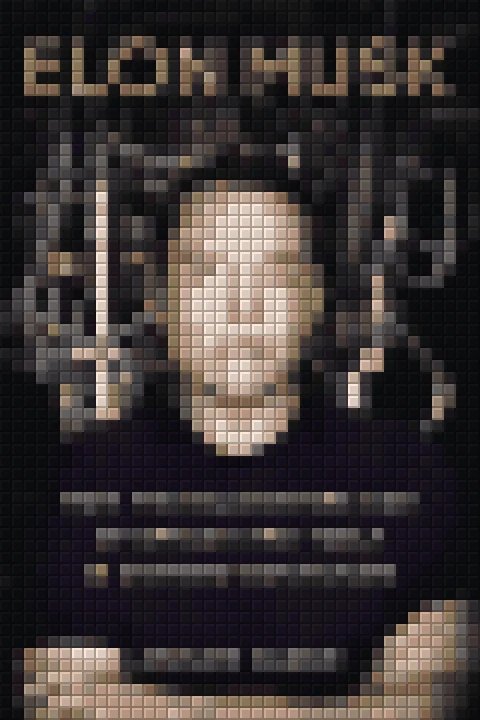
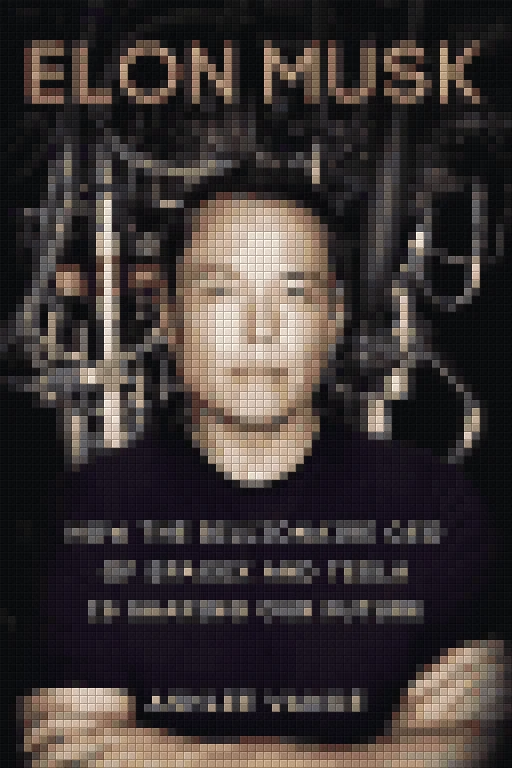
Library covers, readable cards, a pettable cat, gallery fit
- Library: finer pixel covers, three new books (The Hitchhiker's Guide to the
  Galaxy, Ready Player One, The Martian) in place of the blank spines, short
  spine titles, and light text on dark cards (Elon Musk, Aiming High)
- Gallery: smaller thumbnails and a painting sized from the screen height,
  so it fits without scrolling on laptops, tablets and phones
- Cat: a detailed tabby that breathes, twitches its ears and flicks its tail;
  press E or click to pet it and it wakes, meows and shows hearts
- Smoother: no light switching at night (avoids a shader recompile), clicks
  during a book transition are queued, tighter layouts on short screens

Claude-Session: https://claude.ai/code/session_01UD5LqeGeF9FPHVcZJYxNSn

diff --git a/src/hideout.js b/src/hideout.js
@@ -297,13 +297,30 @@ export function buildHideout(scene) {
   // a hearth rug and a cat asleep on it
   { const hr = cv(24, 16, (g2) => { for (let y = 0; y < 16; y++) for (let x = 0; x < 24; x++) { const e = Math.min(x, y, 23 - x, 15 - y); fill(g2, e < 1 ? '#5a2f22' : (x + y) % 4 < 2 ? '#2b6f9a' : '#234a7a', x, y, 1, 1); } });
     const m = new THREE.Mesh(new THREE.PlaneGeometry(1.6, 2.4), lam({ map: toTex(hr, false) })); m.rotation.x = -Math.PI / 2; m.rotation.z = Math.PI / 2; m.position.set(fx - 2.3, F + 0.012, fz); g.add(m); }
-  const cat = new THREE.Group(); cat.position.set(fx - 2.25, F, fz + 0.1); cat.rotation.y = 0.6; cat.userData.keep = true; g.add(cat);
+  // the cat: an orange tabby curled up asleep, head on its paws and tail wrapped round.
+  // It breathes, twitches an ear now and then and flicks its tail; pet it and it wakes up and meows.
+  const cat = new THREE.Group(); cat.position.set(fx - 2.25, F + 0.012, fz + 0.1); cat.rotation.y = 0.6; cat.userData.keep = true; g.add(cat);
+  const fur = flat('#e08a3a'), fur2 = flat('#b85f22'), pale = flat('#f6dcb8'), pink = flat('#f08a9a'), ink = flat('#2a1c14');
   const catBody = new THREE.Group(); cat.add(catBody);
-  { const fur = flat('#e08a3a'), fur2 = flat('#c86a2a'), pale = flat('#f6dcb8');
-    B(catBody, 0.62, 0.24, 0.42, fur, 0, 0.12, 0); B(catBody, 0.62, 0.05, 0.1, fur2, 0, 0.245, 0.06); B(catBody, 0.62, 0.05, 0.1, fur2, 0, 0.245, -0.12);
-    B(catBody, 0.3, 0.24, 0.3, fur, 0.36, 0.13, 0.1); B(catBody, 0.08, 0.1, 0.08, fur2, 0.42, 0.29, 0.02); B(catBody, 0.08, 0.1, 0.08, fur2, 0.42, 0.29, 0.2); B(catBody, 0.04, 0.12, 0.18, pale, 0.52, 0.1, 0.1);
-    B(catBody, 0.04, 0.02, 0.06, flat('#3a2a1f'), 0.515, 0.17, 0.04); B(catBody, 0.04, 0.02, 0.06, flat('#3a2a1f'), 0.515, 0.17, 0.16);
-    B(catBody, 0.5, 0.1, 0.12, fur, -0.05, 0.05, 0.27); B(catBody, 0.12, 0.1, 0.24, fur2, 0.22, 0.05, 0.27); }
+  B(catBody, 0.62, 0.25, 0.4, fur, -0.02, 0.125, 0, true); B(catBody, 0.3, 0.3, 0.42, fur, -0.2, 0.15, 0, true);   // torso and haunch
+  B(catBody, 0.2, 0.16, 0.36, pale, 0.2, 0.08, 0.02, true);                                                         // white chest
+  for (const x of [-0.3, -0.16, -0.02, 0.12]) { B(catBody, 0.05, 0.02, 0.42, fur2, x, 0.256, 0, true); B(catBody, 0.05, 0.12, 0.02, fur2, x, 0.17, 0.205, true); B(catBody, 0.05, 0.12, 0.02, fur2, x, 0.17, -0.205, true); }
+  for (const sz of [-1, 1]) B(catBody, 0.18, 0.08, 0.09, pale, 0.42, 0.04, sz * 0.09, true);                       // front paws
+  B(catBody, 0.12, 0.08, 0.1, pale, -0.3, 0.04, 0.2, true);                                                         // a back paw peeking out
+  const head = new THREE.Group(); head.position.set(0.3, 0.12, 0.02); catBody.add(head);
+  B(head, 0.3, 0.24, 0.32, fur, 0.13, 0.08, 0, true); B(head, 0.08, 0.09, 0.17, pale, 0.29, 0.03, 0, true); B(head, 0.03, 0.03, 0.05, pink, 0.335, 0.075, 0, true);
+  for (const sz of [-1, 1]) B(head, 0.06, 0.02, 0.02, flat('#f6f1e3'), 0.33, 0.03, sz * 0.1, true);                // whiskers
+  B(head, 0.18, 0.02, 0.04, fur2, 0.12, 0.205, 0, true); B(head, 0.14, 0.02, 0.04, fur2, 0.12, 0.205, 0.08, true); B(head, 0.14, 0.02, 0.04, fur2, 0.12, 0.205, -0.08, true);
+  const shut = new THREE.Group(), awake = new THREE.Group(); head.add(shut, awake); awake.visible = false;
+  for (const sz of [-1, 1]) { B(shut, 0.02, 0.02, 0.08, ink, 0.285, 0.12, sz * 0.08, true); B(awake, 0.02, 0.07, 0.07, flat('#7ccf4a'), 0.285, 0.12, sz * 0.08, true); B(awake, 0.025, 0.06, 0.025, ink, 0.29, 0.12, sz * 0.08, true); }
+  const ears = [-1, 1].map((sz) => { const e = new THREE.Group(); e.position.set(0.1, 0.2, sz * 0.1); head.add(e); B(e, 0.09, 0.11, 0.09, fur, 0, 0.055, 0, true); B(e, 0.02, 0.07, 0.05, pink, 0.046, 0.045, 0, true); return e; });
+  // the tail: a chain of joints that curls round the front of the body
+  const tail = []; { let parent = catBody, px = -0.33, pz = 0.05;
+    for (let i = 0; i < 5; i++) { const j = new THREE.Group(); j.position.set(i ? 0.14 : px, i ? 0 : 0.06, i ? 0 : pz); j.rotation.y = i ? 0.48 : -2.6; parent.add(j); const w = 0.09 - i * 0.008; B(j, 0.15, w, w, i === 4 ? fur2 : i % 2 ? fur2 : fur, 0.07, 0, 0, true); tail.push(j); parent = j; } }
+  const heartTex = toTex(cv(7, 6, (g2) => { fill(g2, '#ff5a7a', 1, 0, 2, 1); fill(g2, '#ff5a7a', 4, 0, 2, 1); fill(g2, '#ff5a7a', 0, 1, 7, 2); fill(g2, '#ff5a7a', 1, 3, 5, 1); fill(g2, '#ff5a7a', 2, 4, 3, 1); fill(g2, '#ff5a7a', 3, 5, 1, 1); fill(g2, '#ffc0cc', 1, 1, 1, 1); }), false);
+  const hearts = [0, 1, 2].map((i) => { const m = new THREE.Sprite(new THREE.SpriteMaterial({ map: heartTex, transparent: true, depthWrite: false, fog: false })); m.scale.setScalar(0.22); m.visible = false; g.add(m); return { m, s: i * 0.28 }; });
+  const catHit = new THREE.Mesh(new THREE.BoxGeometry(0.9, 0.5, 0.9), new THREE.MeshBasicMaterial({ transparent: true, opacity: 0, depthWrite: false, colorWrite: false })); catHit.position.set(fx - 2.25, 0.3, fz + 0.1); catHit.userData.prop = 'cat'; g.add(catHit);
+  let petT = -1, twitch = 0, twitchAt = 3, catT = 0;
   solid(fx - 2.65, fx - 1.85, fz - 0.3, fz + 0.5, 0.3);
   // the right wall: a writing desk with a chair, the chest, and the barrels and crates in the front corner
   { const ex = W1 - 0.55;
@@ -335,9 +352,10 @@ export function buildHideout(scene) {
     { id: 'journal', key: 'useJournal', label: 'Journal', color: '#c98a4b', rect: R(dx - 0.6, dx + 0.6, D0 + 1.2, D0 + 2), front: [X(dx), Z(D0 + 3.6)], labelAt: [X(dx), 2.9, Z(D0 + 1.6)] },
     { id: 'gallery', key: 'useGallery', label: 'Gallery', color: '#b0409a', rect: R(gx0, gx1, D0, D0 + 0.6), front: [X(7.48), Z(-5.3)], labelAt: [X(7.48), 4.9, Z(D0 + 0.4)] },
     { id: 'library', key: 'useLibrary', label: 'Library', color: '#b68cff', rect: R(-12, -6.0, 2.0, 7.0), front: [X(-7.4), Z(5.3)], labelAt: [X(-9.2), 3.5, Z(2.6)] },
+    { id: 'cat', key: 'petCat', range: 1.6, label: 'Cat', color: '#e08a3a', rect: R(fx - 2.65, fx - 1.85, fz - 0.3, fz + 0.5), front: [X(fx - 3.3), Z(fz + 0.1)], labelAt: [X(fx - 2.25), 1.3, Z(fz + 0.1)] },
     { id: 'exit', key: 'goUp', range: 1.4, label: 'Back to the Village', color: '#ffd060', rect: R(door.x - 1, door.x + 1, D0 - 0.6, D0 + 0.1), front: [X(door.x), Z(D0 + 1.4)], labelAt: [X(door.x), 4.3, Z(D0)] },
   ];
-  const pickables = [deck, lectern, libHit, ...frames, ...rack.map((r) => r.m)];
+  const pickables = [deck, lectern, libHit, catHit, ...frames, ...rack.map((r) => r.m)];
   const v = new THREE.Vector3();
   let current = null, lastSun = -1;
   return {
@@ -353,9 +371,19 @@ export function buildHideout(scene) {
       const p = 0.5 + Math.sin(time * 1.7) * 0.5; portal.material.opacity = 0.42 + p * 0.12; core.material.opacity = 0.18 + (1 - p) * 0.14;
       torches.forEach((t, i) => t.scale.set(1, 0.85 + Math.sin(time * 11 + i * 2) * 0.15, 1));
       if (playing) deckDisc.rotation.z = -time * 0.9;
-      bulbMat.forEach((m, i) => { m.opacity = night * (0.75 + Math.sin(time * 2 + i * 2.1) * 0.25); }); bulbLight.visible = night > 0.05;
+      bulbMat.forEach((m, i) => { m.opacity = night * (0.75 + Math.sin(time * 2 + i * 2.1) * 0.25); }); 
       fire.forEach((f2, i) => { f2.m.scale.y = 0.75 + Math.sin(time * (9 + i * 2.3) + i) * 0.18 + Math.sin(time * 23 + i * 5) * 0.07; });
-      catBody.scale.y = 1 + Math.sin(time * 1.4) * 0.04; catBody.position.y = 0;
+      // the cat: breathing, an ear twitch every few seconds and a lazy tail; petting wakes it for a few seconds
+      { const cdt = Math.min(0.1, Math.max(0, time - catT)); catT = time;
+        const pet = petT >= 0 ? Math.min(1, petT / 0.35) * Math.min(1, (3.2 - petT) / 0.6) : 0;
+        if (petT >= 0) { petT += cdt; if (petT > 3.2) petT = -1; }
+        catBody.scale.y = 1 + Math.sin(time * 1.3) * 0.035 * (1 - pet) + pet * 0.06 + (pet > 0 ? Math.sin(time * 40) * 0.006 : 0);
+        head.rotation.z = pet * 0.45 + Math.sin(time * 0.6) * 0.03; head.rotation.y = pet * Math.sin(time * 2) * 0.15;
+        shut.visible = pet < 0.4; awake.visible = pet >= 0.4;
+        if (time > twitchAt) { twitch = 1; twitchAt = time + 3 + Math.random() * 5; }
+        twitch = Math.max(0, twitch - cdt * 3); ears.forEach((e, i) => { e.rotation.x = (i ? -1 : 1) * (Math.sin(twitch * Math.PI * 3) * 0.25 * twitch) ; e.rotation.z = pet * 0.2; });
+        tail.forEach((j, i) => { if (i) j.rotation.y = 0.48 + Math.sin(time * (1.1 + pet * 4) - i * 0.7) * (0.06 + i * 0.03) * (1 + pet * 2.5); });
+        hearts.forEach((h) => { const k = petT >= 0 ? (petT - h.s) / 1.6 : -1; h.m.visible = k > 0 && k < 1; if (h.m.visible) { h.m.position.set(cat.position.x + 0.2 + Math.sin(k * 6 + h.s * 9) * 0.15, F + 0.7 + k * 1.1, cat.position.z + (h.s - 0.28) * 0.6); h.m.material.opacity = Math.sin(k * Math.PI); } }); }
       if (time - lastSun > 20 || lastSun < 0) { lastSun = time; const d = new Date(), h = d.getHours() + d.getMinutes() / 60, dx = Math.max(-1.6, Math.min(1.6, (12.5 - h) * 0.32)); shaftGeo.setAttribute('position', new THREE.Float32BufferAttribute(shaftPos(dx), 3)); patch.position.x = win.x + 0.4 + dx; }
       rack.forEach((r) => { r.halo.material.opacity = r.id === current ? (playing ? 0.35 + p * 0.15 : 0.18) : 0; });
       notes.forEach((n) => { const k = (time * 0.32 + n.s) % 1; n.m.visible = playing; v.set(mx - 0.1 + Math.sin(k * 6 + n.s * 9) * 0.45, 1.7 + k * 2.0 + F, mz + 0.5); n.m.position.copy(v); n.m.material.opacity = Math.sin(k * Math.PI); });
@@ -363,6 +391,7 @@ export function buildHideout(scene) {
       book.position.y = 1.35 + F + Math.sin(time * 1.6) * 0.07; book.rotation.y = Math.sin(time * 0.5) * 0.9; const o = 0.35 + Math.sin(time * 1.2) * 0.3; pageL.rotation.z = o; pageR.rotation.z = -o;
       glyphs.forEach((gl) => { const k = (time * 0.22 + gl.s) % 1; gl.m.position.set(gl.sx + (lib.x - gl.sx) * k, gl.sy + F + Math.sin(k * Math.PI) * 0.6 + (1.2 - gl.sy) * k, gl.sz + (lib.z - gl.sz) * k); gl.m.material.opacity = Math.sin(k * Math.PI) * 0.9; });
     },
+    pet() { petT = 0; },
     setDisc(id) { const r = RECORDS.find((q) => q.id === id) || RECORDS[0]; current = r.id; deckDisc.material = coverMat(r); },
   };
 }

diff --git a/src/style.css b/src/style.css
@@ -559,7 +559,7 @@ body:not(.touch) .touch-only,body.touch .desk-only{display:none}
   box-shadow:inset 0 -6px 0 #2a1420,inset 0 -9px 0 #c98a2b}
 .gal-light{position:absolute;left:50%;top:0;width:60%;height:100%;transform:translateX(-50%);background:linear-gradient(180deg,rgba(255,236,170,.16),rgba(255,236,170,0) 75%);clip-path:polygon(38% 0,62% 0,100% 100%,0 100%);pointer-events:none}
 .gal-stage{position:relative;display:grid;place-items:center;min-width:0;touch-action:pan-y}
-.gal-frame{margin:0;width:min(480px,100%,calc((100vh - var(--tb) - 430px) * 4 / 3));min-width:200px;aspect-ratio:4/3;box-sizing:border-box;padding:22px;background:#5a3a1f;will-change:transform,opacity;
+.gal-frame{margin:0;width:min(460px,100%,calc((100vh - var(--tb) - 480px) * 4 / 3));width:min(460px,100%,calc((100dvh - var(--tb) - 480px) * 4 / 3));min-width:150px;aspect-ratio:4/3;box-sizing:border-box;padding:16px;background:#5a3a1f;will-change:transform,opacity;
   box-shadow:inset 0 0 0 4px #3a2413,inset 0 0 0 8px #e4b93a,inset 0 0 0 11px #a8761e,inset 0 0 0 14px #e4b93a,inset 0 0 0 18px #3a2413,0 16px 0 rgba(0,0,0,.45),0 0 60px rgba(255,220,140,.12)}
 .gal-frame canvas{width:100%;height:100%;display:block;image-rendering:pixelated}
 .gal-arrow{width:48px;height:64px;padding:0;display:grid;place-items:center;background:#2a1420;border:3px solid #a8761e;box-shadow:0 5px 0 #120a0e;z-index:2}
@@ -576,7 +576,7 @@ body:not(.touch) .touch-only,body.touch .desk-only{display:none}
 .gal-go:active{transform:translate(2px,2px);box-shadow:2px 2px 0 #120a0e}
 .gal-go.off{border-color:#5a3a3a;color:#8a7a70;box-shadow:none;cursor:default;background:transparent}
 .gal-rail{display:flex;justify-content:center;gap:12px;flex-wrap:wrap}
-.gal-thumb{display:flex;flex-direction:column;align-items:center;width:76px;padding:4px;background:#24141c;border:3px solid #3a2413;color:#d9c9a8;transition:border-color .15s,transform .2s var(--ease)}
+.gal-thumb{display:flex;flex-direction:column;align-items:center;width:52px;padding:3px;background:#24141c;border:3px solid #3a2413;color:#d9c9a8;transition:border-color .15s,transform .2s var(--ease)}
 .gal-thumb canvas{width:100%;aspect-ratio:4/3;height:auto;image-rendering:pixelated;display:block;box-shadow:0 0 0 2px #a8761e}
 .gal-thumb:hover{transform:translateY(-3px)}
 .gal-thumb.on{border-color:#e4b93a;color:#ffe6a0}
@@ -592,7 +592,7 @@ body:not(.touch) .touch-only,body.touch .desk-only{display:none}
   .book-x{top:14px;right:14px}
   .gal-wall{grid-template-columns:1fr;padding:18px 10px 14px}
   .gal-arrow{display:none}
-  .gal-thumb{width:64px}
+  .gal-thumb{width:48px}
 }
 @media (prefers-reduced-motion:reduce){ .cdp-spin,.lcd-title.run span{animation:none} }
 
@@ -605,7 +605,9 @@ body:not(.touch) .touch-only,body.touch .desk-only{display:none}
 .lib-card{display:grid;grid-template-columns:auto 1fr;gap:34px;align-items:center;padding:30px 40px 28px;background-color:var(--page);transition:background-color .5s ease;min-height:280px;opacity:0}
 .lib-cover{width:min(190px,30vw);aspect-ratio:2/3;transform-origin:left center;transform:perspective(900px) rotateY(-14deg);box-shadow:10px 12px 0 rgba(0,0,0,.28)}
 .lib-cover img{width:100%;height:100%;display:block;image-rendering:pixelated;box-shadow:inset 6px 0 0 rgba(0,0,0,.2)}
-.lib-info{color:#14182e;min-width:0}
+.lib-info{color:#14182e;min-width:0;transition:color .4s ease}
+.lib.dark .lib-info{color:#f6f1e3}
+.lib.dark .lib-kicker,.lib.dark .lib-info h3,.lib.dark .lib-note{opacity:.85}
 .lib-kicker{font-family:var(--display);font-size:12px;letter-spacing:.2em;text-transform:uppercase;opacity:.7}
 .lib-info h2{margin:6px 0 4px;font-family:var(--display);font-size:clamp(22px,3vw,32px);line-height:1.1;letter-spacing:.01em}
 .lib-author{margin:0;font-size:17px;font-style:italic;font-weight:700}
@@ -615,13 +617,13 @@ body:not(.touch) .touch-only,body.touch .desk-only{display:none}
 .lib-take{margin:0;font-size:17px;line-height:1.55;max-width:46ch}
 .lib-shelf{position:relative;padding:16px 26px 0;background:linear-gradient(#3a2413,#2a1a10);box-shadow:inset 0 10px 18px rgba(0,0,0,.45)}
 .lib-shelf::after{content:'';position:absolute;left:0;right:0;bottom:0;height:16px;background:#7a5530;box-shadow:inset 0 3px 0 #9a6a3e,inset 0 -4px 0 #5a3a1f}
-.lib-row{position:relative;z-index:1;display:flex;align-items:flex-end;justify-content:center;gap:4px;height:230px;padding-bottom:16px}
-.spine{position:relative;flex:none;width:var(--w);height:var(--h);padding:12px 0;display:flex;flex-direction:column;align-items:center;justify-content:space-between;gap:8px;background:var(--bg);color:var(--fg);border:0;
+.lib-row{position:relative;z-index:1;display:flex;align-items:flex-end;justify-content:center;gap:4px;height:min(240px,30vh);min-height:180px;padding-bottom:16px}
+.spine{position:relative;flex:none;width:var(--w);height:var(--h);padding:8px 0;display:flex;flex-direction:column;align-items:center;justify-content:space-between;gap:5px;background:var(--bg);color:var(--fg);border:0;
   box-shadow:inset 4px 0 0 rgba(255,255,255,.18),inset -6px 0 0 rgba(0,0,0,.28),0 0 0 2px rgba(0,0,0,.35);transition:transform .35s var(--ease),filter .2s;cursor:pointer}
 .spine.blank{cursor:default;pointer-events:none;filter:brightness(.8)}
 .sp-band{display:block;width:100%;height:6px;background:var(--band);opacity:.9}
-.sp-title{flex:1;writing-mode:vertical-rl;transform:rotate(180deg);font-family:var(--display);font-weight:700;font-size:14px;letter-spacing:.04em;line-height:1.05;text-align:center;overflow:hidden;max-height:100%}
-.sp-author{writing-mode:vertical-rl;transform:rotate(180deg);font-family:var(--display);font-size:11px;letter-spacing:.12em;text-transform:uppercase;opacity:.85}
+.sp-title{flex:1;min-height:0;writing-mode:vertical-rl;transform:rotate(180deg);font-family:var(--display);font-weight:700;font-size:11.5px;letter-spacing:0;line-height:1.1;text-align:center;overflow:hidden;max-height:100%}
+.sp-author{writing-mode:vertical-rl;transform:rotate(180deg);font-family:var(--display);font-size:9.5px;letter-spacing:.12em;text-transform:uppercase;opacity:.85}
 .spine:hover{transform:translateY(-10px)}
 .spine.on{transform:translateY(-34px);filter:drop-shadow(0 0 10px rgba(255,214,120,.5))}
 .lib-hint{margin:0;padding:10px 0 14px;text-align:center;font-family:var(--display);font-size:13px;letter-spacing:.1em;color:#c9a46a;background:#1a0f08}
@@ -629,7 +631,7 @@ body:not(.touch) .touch-only,body.touch .desk-only{display:none}
   .lib-card{grid-template-columns:1fr;justify-items:center;text-align:center;gap:16px;padding:22px 18px}
   .lib-cover{width:120px;transform:none!important}
   .lib-rule{margin-left:auto;margin-right:auto}
-  .lib-row{height:170px;overflow-x:auto;justify-content:flex-start}
+  .lib-row{height:190px;min-height:190px;overflow-x:auto;justify-content:flex-start}
   .spine{width:calc(var(--w) * .72)}
   .sp-title{font-size:11px}
 }
@@ -645,3 +647,23 @@ body:not(.touch) .touch-only,body.touch .desk-only{display:none}
 #nowPlaying span{font-size:14px;color:var(--ink-dim);white-space:nowrap;overflow:hidden;text-overflow:ellipsis}
 #nowPlaying em{font-style:normal;font-size:12px;color:#8a8496;margin-top:4px}
 @media (prefers-reduced-motion:reduce){ #nowPlaying img{animation:none} }
+
+/* short screens (small laptops, tablets on their side): tighten the gallery so the thumbnails stay in view */
+@media (max-height:780px){
+  .gal{gap:8px;padding:12px}
+  .gal-wall{padding:14px 12px 14px;gap:10px}
+  .gal-kicker{display:none}
+  .gal-label h3{font-size:20px}
+  .gal-label h3::after{margin-top:6px}
+  .gal-label p{margin:2px 0 4px;font-size:13.5px;line-height:1.4}
+  .gal-go{padding:6px 12px;font-size:13px}
+  .gal-top strong{font-size:20px}
+}
+@media (max-height:780px){
+  .lib-card{padding:20px 34px 18px;min-height:0;gap:26px}
+  .lib-cover{width:min(150px,26vw)}
+  .lib-info h2{font-size:clamp(20px,2.6vw,26px)}
+  .lib-take{font-size:15.5px}
+  .lib-rule{margin:10px 0 8px}
+  .lib-hint{padding:6px 0 8px}
+}

diff --git a/src/hideout-content.js b/src/hideout-content.js
@@ -52,28 +52,37 @@ export const GALLERY = [
 
 /* ── the library ──
    The books on the shelves round the enchanting table. cover: an image in public/assets/images/books/.
-   spine: the colours of the book's spine in the shelf menu. takeaway: one line on why it matters.
+   spine: the colours of the book's spine in the shelf menu; spineTitle: a shorter title for the spine. takeaway: one line on why it matters.
    The takeaways here are drafts: rewrite them in your own words. */
 export const BOOKS = [
-  { id: 'poor-charlie', title: 'Poor Charlie’s Almanack', author: 'Charles T. Munger', note: 'Edited by Peter D. Kaufman', cover: 'poor-charlie.webp',
+  { id: 'poor-charlie', spineTitle: 'Poor Charlie\u2019s Almanack', title: 'Poor Charlie’s Almanack', author: 'Charles T. Munger', note: 'Edited by Peter D. Kaufman', cover: 'poor-charlie.webp',
     spine: { bg: '#d9cf8a', fg: '#2a2f86', band: '#2a2f86' }, page: '#b9b06f',
     takeaway: 'Build a latticework of models from many disciplines, and invert: avoid stupidity before reaching for brilliance.' },
-  { id: 'most-important', title: 'The Most Important Thing', author: 'Howard Marks', note: 'Illuminated edition', cover: 'most-important-thing.webp',
+  { id: 'most-important', spineTitle: 'The Most Important Thing', title: 'The Most Important Thing', author: 'Howard Marks', note: 'Illuminated edition', cover: 'most-important-thing.webp',
     spine: { bg: '#f3ead2', fg: '#1d6b3a', band: '#1d6b3a' }, page: '#e8dcb6',
     takeaway: 'Risk is more things happening than will happen: know where we stand in the cycle, and let second-level thinking set the price.' },
-  { id: 'four-pillars', title: 'The Four Pillars of Investing', author: 'William J. Bernstein', cover: 'four-pillars.webp',
+  { id: 'four-pillars', spineTitle: 'Four Pillars of Investing', title: 'The Four Pillars of Investing', author: 'William J. Bernstein', cover: 'four-pillars.webp',
     spine: { bg: '#f1efe6', fg: '#b52a26', band: '#2b2f9a' }, page: '#d9d4c6',
     takeaway: 'Theory, history, psychology and the business itself: own the market cheaply, and stay the course when it hurts.' },
-  { id: 'invent-wander', title: 'Invent & Wander', author: 'Jeff Bezos', note: 'Introduction by Walter Isaacson', cover: 'invent-wander.webp',
+  { id: 'invent-wander', spineTitle: 'Invent & Wander', title: 'Invent & Wander', author: 'Jeff Bezos', note: 'Introduction by Walter Isaacson', cover: 'invent-wander.webp',
     spine: { bg: '#f6f3ea', fg: '#22a8e0', band: '#c8955a' }, page: '#e6dccb',
     takeaway: 'Focus on what won’t change, treat most decisions as two-way doors, and be willing to be misunderstood for a long time.' },
-  { id: 'zero-to-one', title: 'Zero to One', author: 'Peter Thiel', note: 'With Blake Masters', cover: 'zero-to-one.webp',
+  { id: 'zero-to-one', spineTitle: 'Zero to One', title: 'Zero to One', author: 'Peter Thiel', note: 'With Blake Masters', cover: 'zero-to-one.webp',
     spine: { bg: '#7fb0dc', fg: '#141a24', band: '#f1efe6' }, page: '#a9c8e6',
     takeaway: 'Competition is for losers: build something new for a small market that badly wants it, then expand from a monopoly.' },
-  { id: 'elon-musk', title: 'Elon Musk', author: 'Ashlee Vance', cover: 'elon-musk.webp',
+  { id: 'elon-musk', spineTitle: 'Elon Musk', title: 'Elon Musk', author: 'Ashlee Vance', cover: 'elon-musk.webp',
     spine: { bg: '#141418', fg: '#d9b25a', band: '#d9b25a' }, page: '#3a3a40',
     takeaway: 'Reason from first principles and pick goals big enough to bend the cost curve, then outwork everyone getting there.' },
-  { id: 'aiming-high', title: 'Aiming High', author: 'Atsuo Inoue', note: 'Masayoshi Son, SoftBank, and Disrupting Silicon Valley', cover: 'aiming-high.webp',
+  { id: 'aiming-high', spineTitle: 'Aiming High', title: 'Aiming High', author: 'Atsuo Inoue', note: 'Masayoshi Son, SoftBank, and Disrupting Silicon Valley', cover: 'aiming-high.webp',
     spine: { bg: '#0d0d10', fg: '#f1efe6', band: '#e0303a' }, page: '#2a2a30',
     takeaway: 'Bet early and big on the next technology wave, think in decades, and survive the drawdowns that come with it.' },
+  { id: 'hitchhikers', spineTitle: 'Hitchhiker\u2019s Guide', title: 'The Hitchhiker\u2019s Guide to the Galaxy', author: 'Douglas Adams', note: 'Five novels in one volume', cover: 'hitchhikers.webp',
+    spine: { bg: '#1b2140', fg: '#7ccf4a', band: '#f6f1e3' }, page: '#232a4a',
+    takeaway: 'Don\u2019t panic: the universe is absurd, so ask better questions, keep your sense of humour, and always know where your towel is.' },
+  { id: 'ready-player-one', spineTitle: 'Ready Player One', title: 'Ready Player One', author: 'Ernest Cline', cover: 'ready-player-one.webp',
+    spine: { bg: '#e8194a', fg: '#ffd27a', band: '#ffd27a' }, page: '#f2c46e',
+    takeaway: 'Obsessive curiosity is an edge: know the history of the game better than anyone and the hidden keys start to show.' },
+  { id: 'the-martian', spineTitle: 'The Martian', title: 'The Martian', author: 'Andy Weir', cover: 'the-martian.webp',
+    spine: { bg: '#d8501f', fg: '#fbf1e6', band: '#3a1a10' }, page: '#e8783a',
+    takeaway: 'Work the problem: solve one thing, then the next, and enough of them in a row is how you get home.' },
 ];

diff --git a/src/hideout-ui.js b/src/hideout-ui.js
@@ -218,19 +218,20 @@ export function createHideoutUI({ onDisc, focusGame, onAllRead }) {
       const b = el('button', 'spine'); b.setAttribute('aria-label', bk.title + ' by ' + bk.author);
       b.style.setProperty('--bg', bk.spine.bg); b.style.setProperty('--fg', bk.spine.fg); b.style.setProperty('--band', bk.spine.band);
       b.style.setProperty('--h', (86 + ((i * 37) % 14)) + '%'); b.style.setProperty('--w', (54 + ((i * 23) % 16)) + 'px');
-      b.append(el('i', 'sp-band'), el('span', 'sp-title', bk.title), el('span', 'sp-author', bk.author.split(' ').slice(-1)[0]), el('i', 'sp-band b'));
+      b.append(el('i', 'sp-band'), el('span', 'sp-title', bk.spineTitle || bk.title), el('span', 'sp-author', bk.author.split(' ').slice(-1)[0]), el('i', 'sp-band b'));
       b.onclick = () => pick(bk.id); row.appendChild(b); spines[bk.id] = b;
       const im = new Image(); im.src = BASE + 'assets/images/books/' + bk.cover; // fetch the covers ahead
     });
-    // a few blank books to fill out the shelf
-    ['#5a3a1f', '#2f4a3a', '#6b2a2a'].forEach((c, i) => { const d = el('i', 'spine blank'); d.style.setProperty('--bg', c); d.style.setProperty('--h', (80 + i * 6) + '%'); d.style.setProperty('--w', (30 + i * 6) + 'px'); row.appendChild(d); });
-    let current = null, moving = false;
+    let current = null, moving = false, queued = null;
     function fill(bk) {
       coverImg.src = BASE + 'assets/images/books/' + bk.cover; libp.style.setProperty('--page', bk.page);
+      // dark pages get light text, light pages dark text, so the card always reads clearly
+      const n = parseInt(bk.page.slice(1), 16), lum = (0.2126 * (n >> 16 & 255) + 0.7152 * (n >> 8 & 255) + 0.0722 * (n & 255)) / 255;
+      libp.classList.toggle('dark', lum < 0.5);
       lk.textContent = 'From the shelf · No. ' + String(BOOKS.indexOf(bk) + 1).padStart(2, '0'); lt.textContent = bk.title; la.textContent = bk.author; ln.textContent = bk.note || ''; ln.hidden = !bk.note; lq.textContent = bk.takeaway;
     }
     async function pick(id) {
-      if (moving || id === current) return; const bk = BOOKS.find((q) => q.id === id); if (!bk) return; moving = true; sound.play('near');
+      if (moving) { queued = id; return; } if (id === current) return; const bk = BOOKS.find((q) => q.id === id); if (!bk) return; moving = true; sound.play('near');
       for (const k in spines) spines[k].classList.toggle('on', k === id);
       libp.classList.add('picked');
       if (current) await Promise.all([anim(card, [{ opacity: 1, transform: 'none' }, { opacity: 0, transform: 'translateY(12px)' }], { duration: 200, easing: 'ease-in', fill: 'forwards' }).finished]);
@@ -239,6 +240,7 @@ export function createHideoutUI({ onDisc, focusGame, onAllRead }) {
       anim(card, [{ opacity: 0, transform: 'translateY(16px)' }, { opacity: 1, transform: 'none' }], { duration: 380, easing: 'cubic-bezier(.2,.8,.25,1)', fill: 'forwards' });
       await anim(coverBox, [{ transform: 'perspective(900px) rotateY(-70deg) translateX(-30px)', opacity: 0 }, { transform: 'perspective(900px) rotateY(-14deg)', opacity: 1 }], { duration: 560, easing: 'cubic-bezier(.2,.8,.25,1)', fill: 'forwards' }).finished;
       moving = false;
+      if (queued) { const q = queued; queued = null; pick(q); }
     }
     panels.library.onShow = () => { if (!current) pick(BOOKS[0].id); };
     panels.library.key = (e) => { if (e.key !== 'ArrowLeft' && e.key !== 'ArrowRight') return false; const i = BOOKS.findIndex((q) => q.id === current) + (e.key === 'ArrowRight' ? 1 : -1); if (i >= 0 && i < BOOKS.length) pick(BOOKS[i].id); return true; };

diff --git a/src/i18n.js b/src/i18n.js
@@ -13,7 +13,7 @@ const UI = {
     progress: '{n} of {t} stalls explored', progHint: 'Open every stall to earn a companion', progWon: 'Wolf companion unlocked',
     menuHint: 'Pick a place and the character walks there. Tap or click the ground to walk too.',
     kMove: 'move', kRun: 'run', kJump: 'jump', kRoll: 'twice to roll',
-    hideoutNav: 'The Hideout (down the cave)', enterCave: 'Go down into the cave', goUp: 'Climb back to the village', useMusic: 'Open the CD player', useJournal: 'Read the journal', useGallery: 'Look at the gallery', useLibrary: 'Browse the bookshelves', kOpen: 'open or talk', kClose: 'close', kZoom: 'Scroll or pinch to zoom',
+    hideoutNav: 'The Hideout (down the cave)', enterCave: 'Go down into the cave', goUp: 'Climb back to the village', useMusic: 'Open the CD player', useJournal: 'Read the journal', useGallery: 'Look at the gallery', useLibrary: 'Browse the bookshelves', petCat: 'Pet the cat', kOpen: 'open or talk', kClose: 'close', kZoom: 'Scroll or pinch to zoom',
     open: 'Open {name}', changeOutfit: 'Change outfit', talkTo: 'Talk to {name}', use: 'Open', talk: 'Talk', jump: 'Jump',
     soon: 'Link coming soon', soonSub: 'Project link not added yet', copy: 'Copy', copied: 'Copied',
     working: 'Working', chatHint: 'Press E or Esc to close', chatHintTouch: 'Tap × to close',

diff --git a/src/audio.js b/src/audio.js
@@ -56,6 +56,7 @@ const SYNTH = {
   cricket: () => { for (let i = 0; i < 3; i++) tone(4300, 4300, 0.045, 'sine', 0.008, i * 0.07); },
   // a nasal "hrmm", in the spirit of a grumbling villager
   villager: () => { const f = 150 + Math.random() * 50; tone(f, f * 0.78, 0.34, 'sawtooth', 0.16, 0, 820); tone(f * 1.5, f * 1.1, 0.22, 'sawtooth', 0.05, 0.02, 1500); },
+  meow: () => { tone(560, 820, 0.16, 'sawtooth', 0.07, 0, 1500); tone(820, 470, 0.34, 'sawtooth', 0.07, 0.14, 1150); tone(1120, 640, 0.3, 'triangle', 0.02, 0.16); },
   crackle: () => { for (let i = 0; i < 3; i++) setTimeout(() => thud(0.03, 2400 + Math.random() * 1800, 0.05 + Math.random() * 0.05), i * (40 + Math.random() * 90)); },
   roll: () => { thud(0.22, 1400, 0.12); tone(200, 110, 0.2, 'triangle', 0.05); },
   bark: () => { tone(430, 250, 0.09, 'square', 0.07, 0, 700); tone(470, 260, 0.1, 'square', 0.07, 0.16, 700); },

diff --git a/src/main.js b/src/main.js
@@ -149,7 +149,7 @@ function travel(down, then) {
 }
 function useProp(id) {
   auto = null;
-  if (id === 'exit') travel(false); else hx.show(id);
+  if (id === 'exit') travel(false); else if (id === 'cat') { hideout.pet(); sound.play('meow'); } else hx.show(id);
 }
 
 function openStall(s) {

diff --git a/README.md b/README.md
@@ -55,10 +55,10 @@ At the bottom of the square, a cave glows in the rock. Walk down the steps and y
   ergodicity, circles of competence, fat pitches, market cycles and more.
 - **The gallery.** Framed paintings of my side projects, each with a link.
 - **The library.** Bookshelves round an enchanting table. Browse the shelf, pull a book out, and read
-  its title, author and my one-line takeaway.
+  its title, author and my one-line takeaway. Ten books, from Poor Charlie's Almanack to The Martian.
 - **Small rewards.** Read every journal entry (each gets a wax seal) to earn the **Scholar's Lantern**.
   Stand by the CD player while a CD plays and the room dims into **listening mode**.
-- **The room.** A fireplace with a sleeping cat, a raised lounge, string lights at night, maps on the
+- **The room.** A fireplace with a sleeping cat you can pet (it meows), a raised lounge, string lights at night, maps on the
   walls, and window light that moves with the time of day.
 - **The window.** Sunny sky by day, stars by night, so you can tell the time even underground.
 
